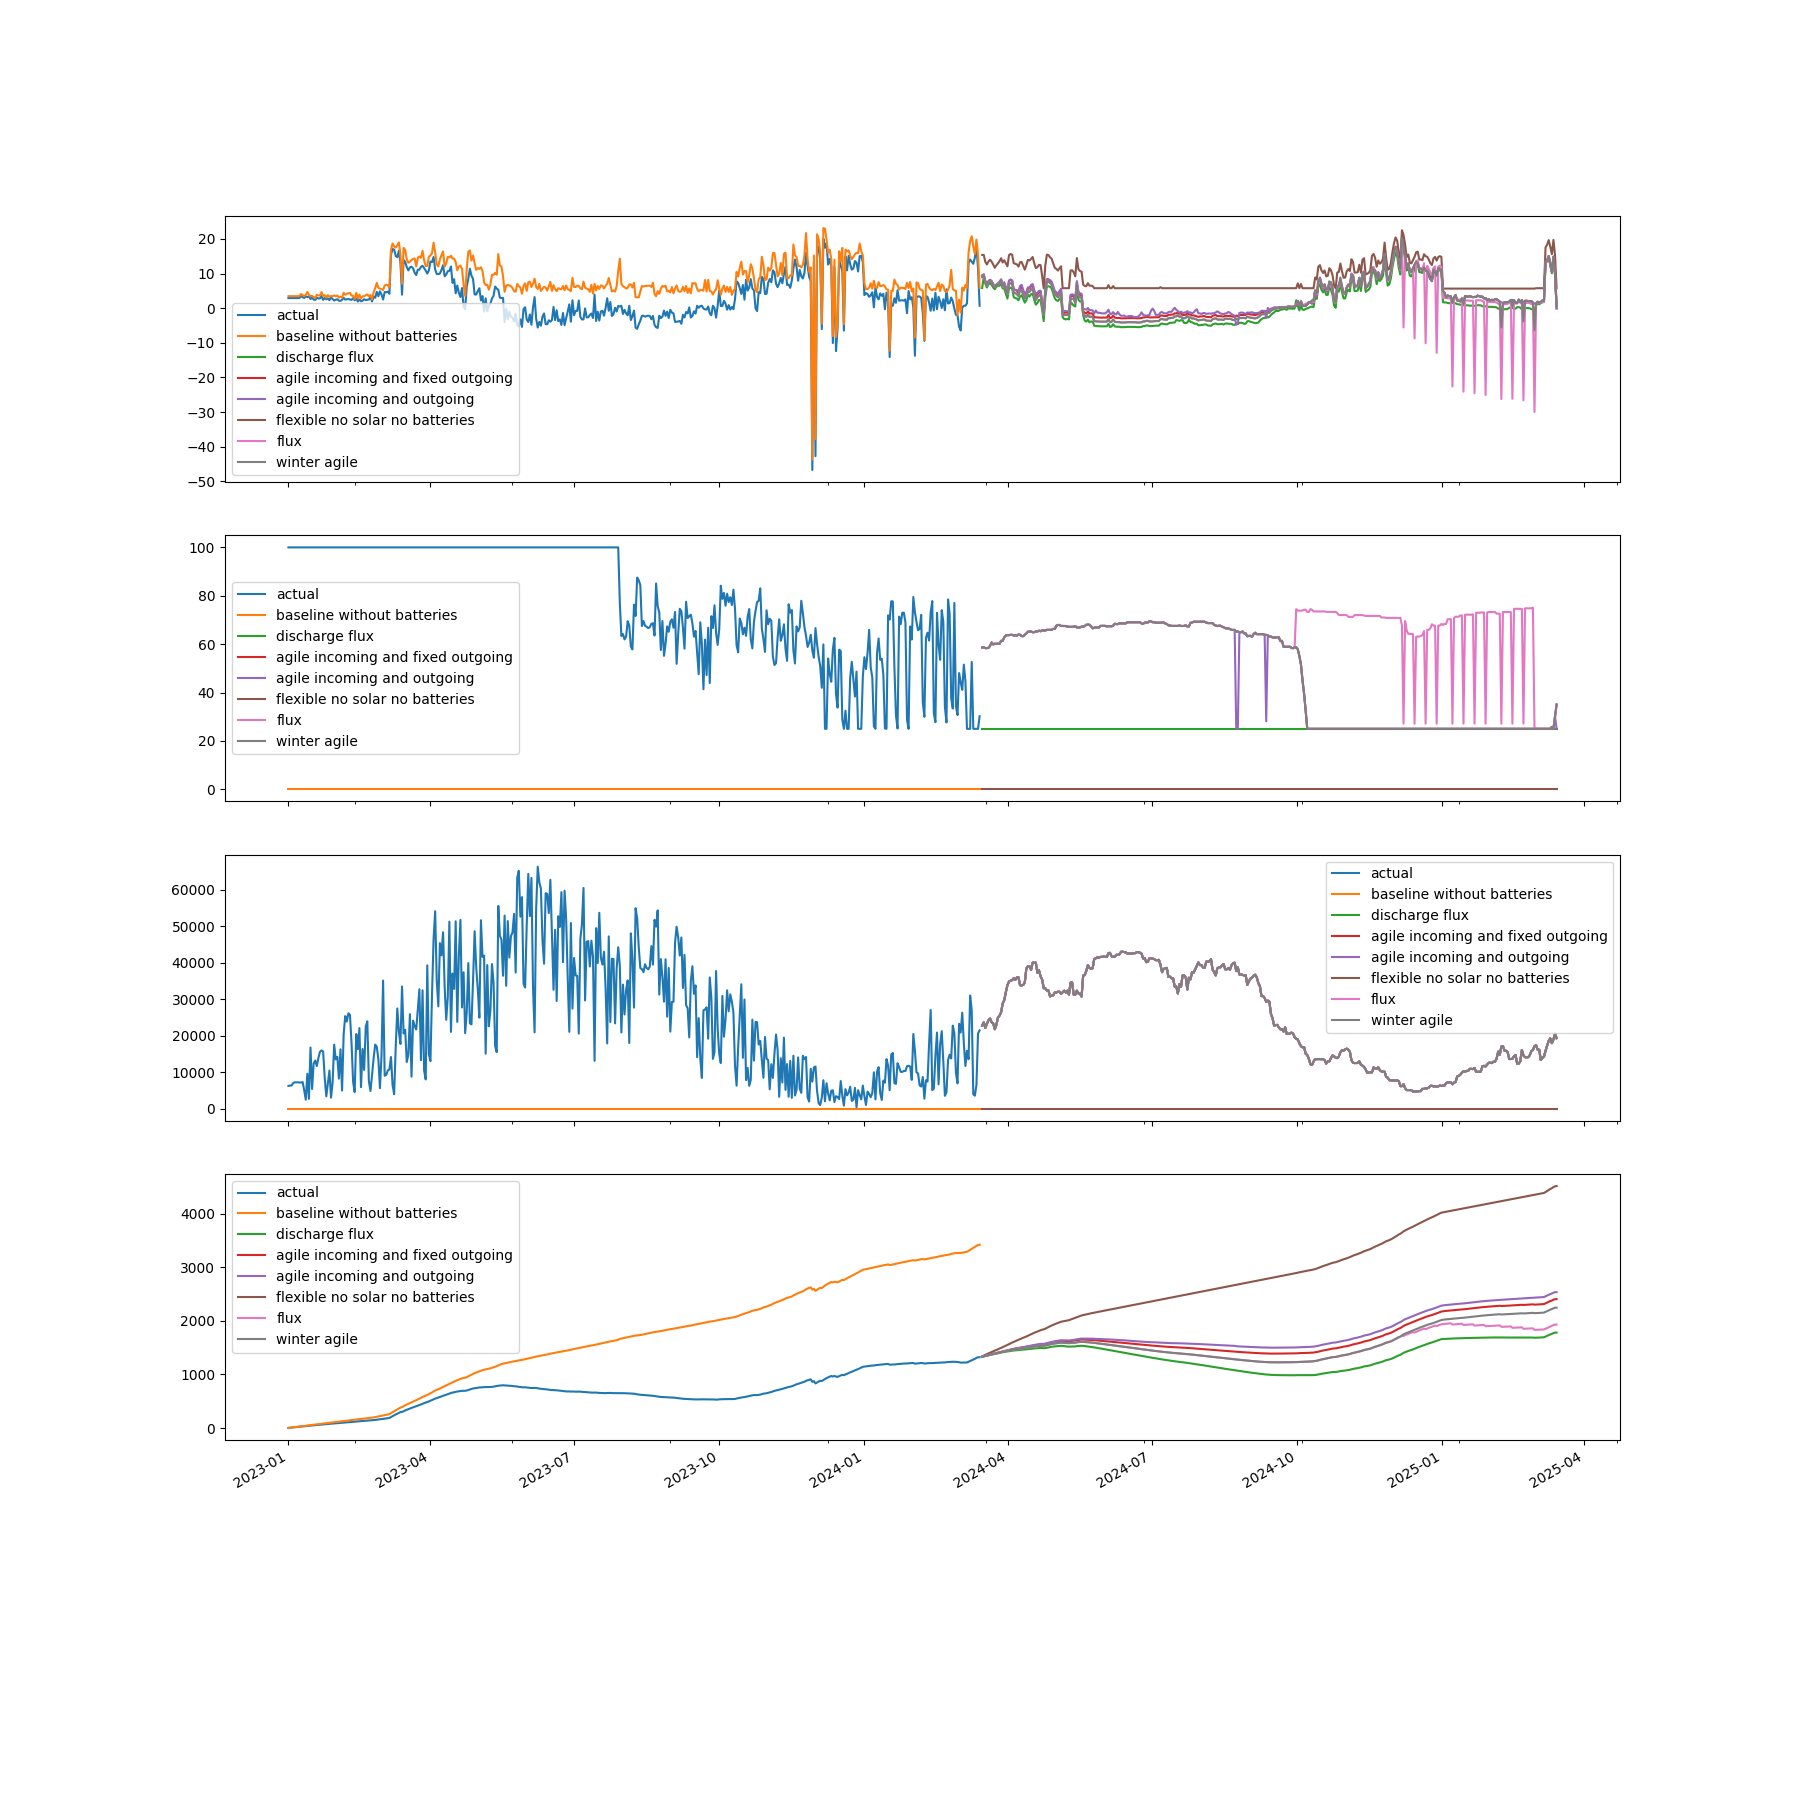
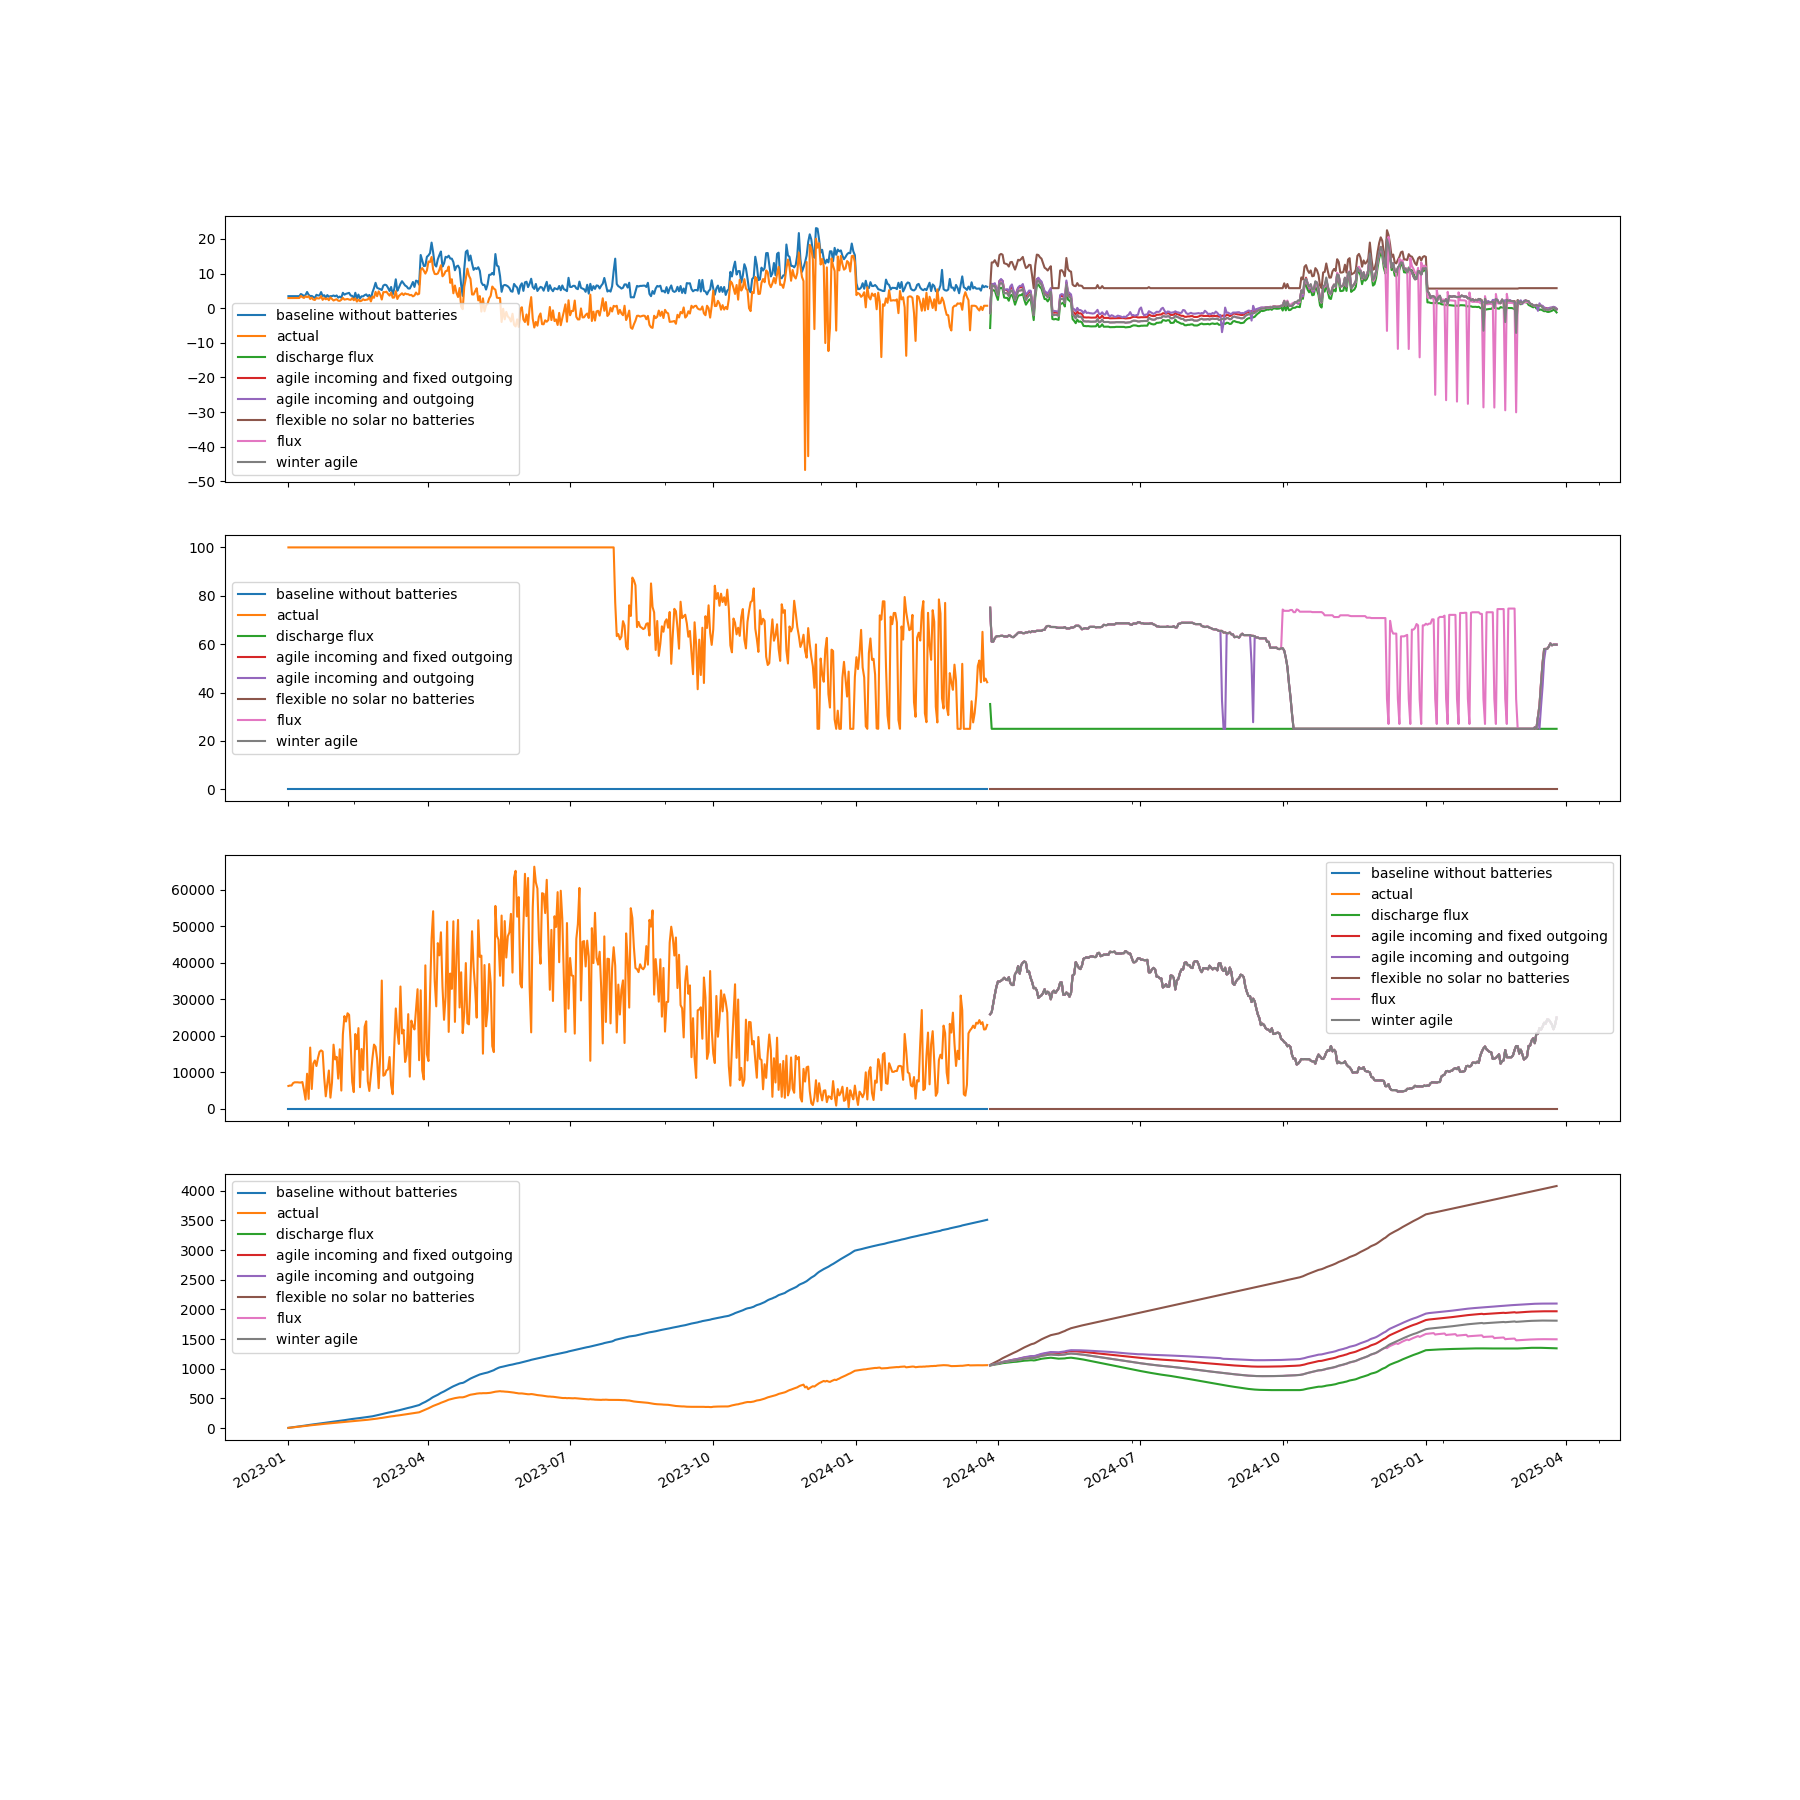
refresh

diff --git a/forecast.py b/forecast.py
@@ -122,7 +122,7 @@ def do_query(
     return resl[0]
 
 
-def memoize(filename, generate, max_age_days=7):
+def memoize(filename, generate, max_age_days=0):
     if os.path.exists(filename):
         mtime = os.stat(filename).st_mtime
         mtime_date = datetime.datetime.fromtimestamp(mtime)
@@ -671,7 +671,8 @@ def simulate_tariff(
     color="grey",
     verbose=False,
     start=tnow,
-    end=tnow + datetime.timedelta(days=365)
+    end=tnow + datetime.timedelta(days=365),
+    balance=0.0,
 ):
     title('modelling '+name)
     if electricity_costs is None:
@@ -687,7 +688,7 @@ def simulate_tariff(
         print("run simulation", name)
     kwh_days = []
     soc = battery_size if battery else 0
-    cost = 0
+    cost = balance
     cost_series = []
     solar_prod_total = 0
     days = []
@@ -824,7 +825,7 @@ def simulate_tariff(
                 + export_payment_hh
                 + battery_wear_cost
             )
-            if actual:
+            if actual and saving_sessions_discharge:
                 for rec in sessions:
                     if rec['_time'] >= time_of_day and rec['_time'] < time_of_day+datetime.timedelta(minutes=30):
                         print('saving session at', time_of_day,'is',rec)
@@ -893,7 +894,7 @@ def simulate_tariff(
     return {
         "day_cost_map": day_cost_map,
         "day_costs" :  pd.DataFrame({name:day_costs}, index=days), 
-        "annual cost": cost_series[-1],
+        "final_cost": cost_series[-1],
         "name": name,
         "soc_daily_lows": pd.DataFrame({name:soc_daily_lows}, index=days),
         "color": color,
@@ -907,7 +908,9 @@ def simulate_tariff_and_store(name, **params):
     results = simulate_tariff(name, **params)
     RUN_ARCHIVE.append(results)
     plot_days(results, name)
-
+    final_cost =  results['final_cost']
+    print(name, 'final cost', final_cost)
+    return final_cost
 
 def in_savings_session(time_of_day):
     return (
@@ -1243,7 +1246,7 @@ def plot_solar_production():
     def bucketround(t):
         return datetime.datetime(year=t.year, month=t.month, day =((t.day-1) // 7)*7+1)
 
-    combined = memoize('solar_production.pickle', generate_solar_production, max_age_days=0)
+    combined = memoize('solar_production.pickle', generate_solar_production)
     
     combined['actual to max percentage'] = combined['real'] / combined['model']
     title('daily solar production analysis')
@@ -1404,7 +1407,20 @@ def plot_simulations(results_list):
 
 
 def run_simulations():
-    simulate_tariff_and_store(
+
+    balance_base_line = simulate_tariff_and_store(
+        name="baseline without batteries",
+        actual=True,
+        verbose=True,
+        grid_charge=False,
+        start=t0,
+        end=tnow,
+        grid_discharge=False,
+        battery = False,
+        saving_sessions_discharge=False,
+        solar=False
+    )
+    balance = simulate_tariff_and_store(
         name="actual",
         actual=True,
         verbose=False,
@@ -1415,8 +1431,15 @@ def run_simulations():
         saving_sessions_discharge=True,
         solar=True,
     )
+
+
+    title("Current balance")
+    print('with batteries and solar=',balance, 'base-line without batteries and without solar=', balance_base_line)
+
+    title("Simulations")
     simulate_tariff_and_store(
         name="discharge flux",
+        balance=balance,
         electricity_costs=SITE["tariffs"]["flux"]["kwh_costs"],
         grid_charge=True,
         grid_discharge=True,
@@ -1428,6 +1451,7 @@ def run_simulations():
     )
     simulate_tariff_and_store(
         name="agile incoming and fixed outgoing",
+        balance=balance,
         electricity_costs=[
             {
                 "start": 0,
@@ -1447,6 +1471,7 @@ def run_simulations():
     )
     simulate_tariff_and_store(
         name="agile incoming and outgoing",
+        balance=balance,
         electricity_costs=[
             {
                 "start": 0,
@@ -1469,6 +1494,7 @@ def run_simulations():
 
     simulate_tariff_and_store(
         name="flexible no solar no batteries",
+        balance=balance,
         gas_hot_water=True,
         verbose=False,
         battery=False,
@@ -1477,6 +1503,7 @@ def run_simulations():
 
     simulate_tariff_and_store(
         name="flux",
+        balance=balance,
         electricity_costs=SITE["tariffs"]["flux"]["kwh_costs"],
         grid_charge=True,
         battery=True,
@@ -1486,6 +1513,7 @@ def run_simulations():
     )
     simulate_tariff_and_store(
         name="winter agile",
+        balance=balance,
         electricity_costs=SITE["tariffs"]["flux"]["kwh_costs"],
         winter_agile_import=True,
         grid_charge=True,
